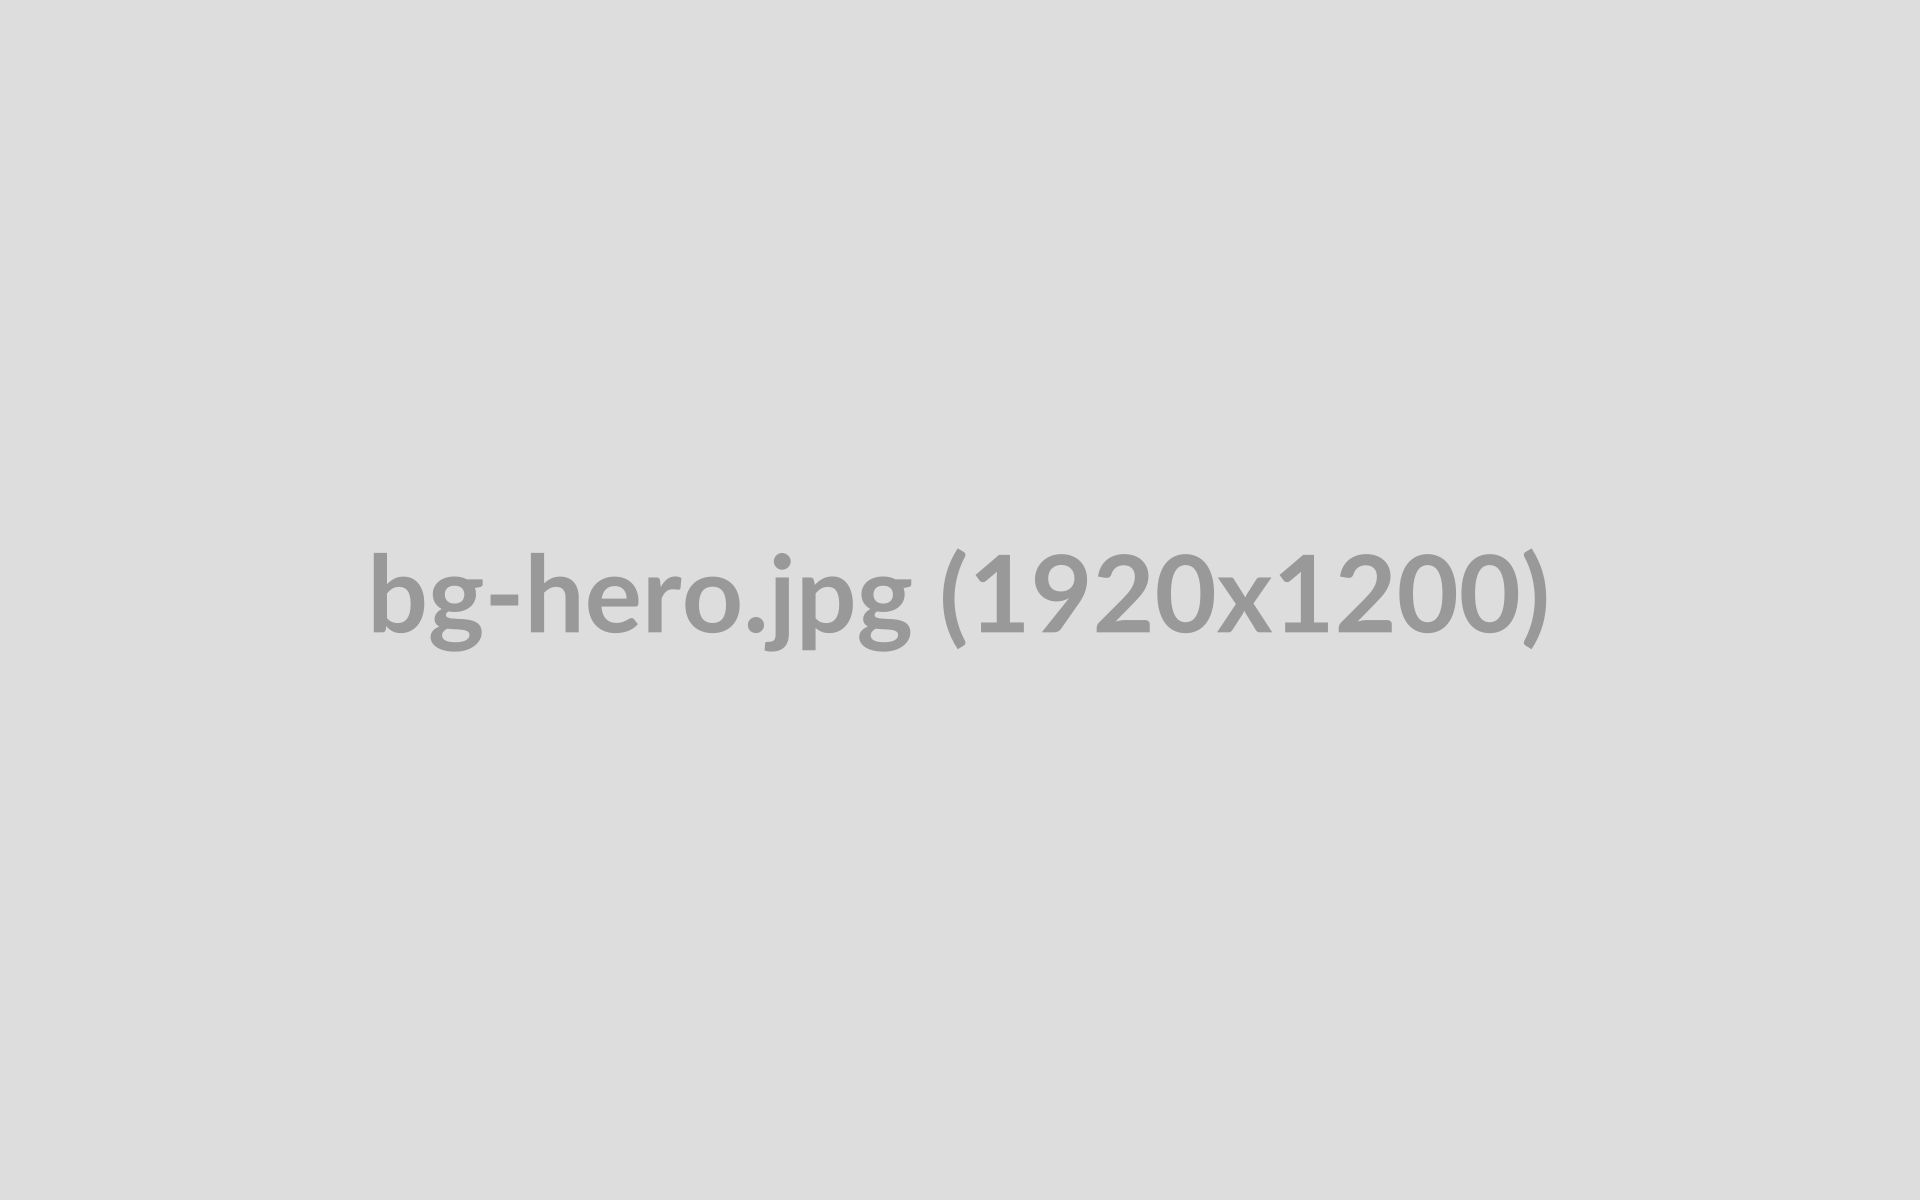
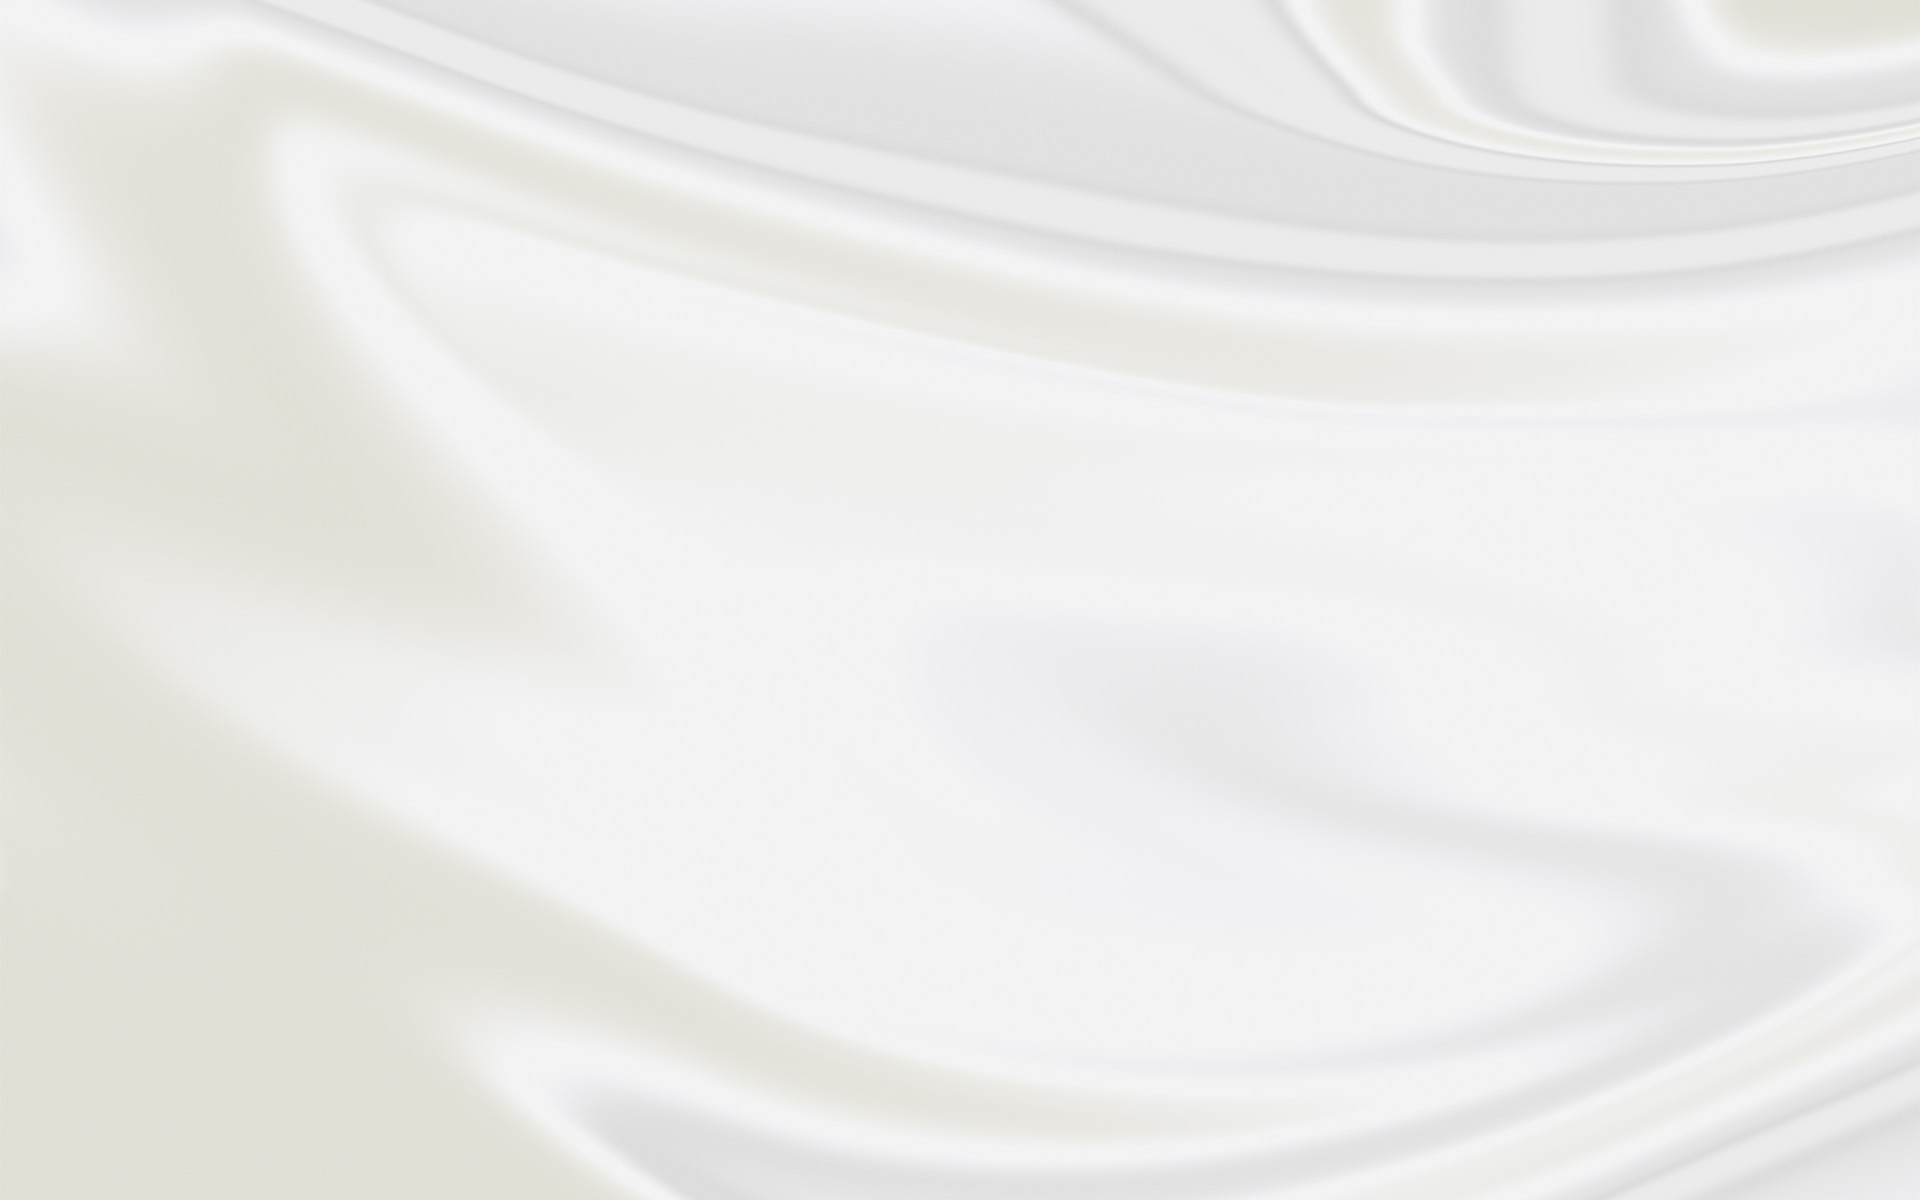
Second Update

Changed region(s): [[0.1875, 0.4625, 0.8125, 0.555]]

diff --git a/index.html b/index.html
@@ -2,7 +2,7 @@
 <html lang="en" class="h-100 w-100">
 
 <head>
-    <title>Dahlia - Responsive Wedding Invitation</title>
+    <title>Save the Date! (May 15)</title>
 
     <link rel="preload" href="css/style.min.css" as="style">
     <link rel="preload" href="js/script.min.js" as="script">
@@ -24,6 +24,17 @@
 </head>
 
 <body id="page-top" class="h-100 w-100">
+    
+  <!-- Lock Screen Start -->
+  <div id="lock-screen">
+    <div class="lock-container">
+        <h4>Enter Your Invite Code</h4>
+        <input id="access-code" type="text" placeholder="e.g., 47923" autocomplete="off" />
+        <button onclick="checkCode()">UNLOCK INVITATION</button>
+        <p id="error-msg">Invalid code. Please try again.</p>
+    </div>
+</div>
+<!-- Lock Screen End -->
 
     <!-- Preloader Start -->
     <div class="preloader bg-white h-100 position-fixed w-100">
@@ -36,70 +47,12 @@
     </div>
     <!-- Preloader End -->
 
-
-    <!-- Header Start -->
-    <header class="fixed-top">
-        <nav class="navbar navbar-expand-lg p-0">
-            <div class="container">
-                <!-- Navbar brand (mobile) -->
-                <div class="navbar-brand align-items-center d-flex d-lg-none me-0">
-                    <img width="300" height="67" src="img/navbar-brand.png" alt="Logo">
-                </div>
-
-                <!-- Navbar toggler -->
-                <button class="navbar-toggler bg-secondary" type="button" data-bs-toggle="collapse" data-bs-target="#navbar" aria-controls="navbar" aria-expanded="false" aria-label="Toggle navigation">
-                    <span class="navbar-toggler-icon"></span>
-                </button>
-
-                <!-- Navbar menu -->
-                <div id="navbar" class="collapse navbar-collapse justify-content-lg-center">
-                    <ul class="navbar-nav pt-3 pt-lg-0">
-                        <li class="nav-item me-3">
-                            <a class="nav-link page-scroll" href="#the-couple">The double</a>
-                        </li>
-                        <li class="nav-item me-3">
-                            <a class="nav-link page-scroll" href="#the-wedding-event">Events</a>
-                        </li>
-                        <li class="nav-item">
-                            <a class="nav-link page-scroll" href="#love-story">Love Story</a>
-                        </li>
-                    </ul>
-
-                    <!-- Navbar brand (desktop) -->
-                    <div class="navbar-brand d-none d-lg-block mx-3 mx-xl-5 text-center">
-                        <img width="300" height="67" src="img/navbar-brand.png" alt="Logo">
-                    </div>
-
-                    <ul class="navbar-nav">
-                        <li class="nav-item me-3">
-                            <a class="nav-link page-scroll" href="#photos">Photos</a>
-                        </li>
-                        <li class="nav-item me-3">
-                            <a class="nav-link page-scroll" href="#wedding-gifts">Wedding Gifts</a>
-                        </li>
-                        <li class="nav-item">
-                            <a class="nav-link page-scroll" href="#rsvp">RSVP</a>
-                        </li>
-                    </ul>
-                </div>
-                <!-- //.collapse -->
-            </div>
-            <!-- //.container -->
-        </nav>
-    </header>
-    <!-- Header End -->
-
-
-    <!-- Spacer -->
-    <span class="spacer d-block w-100"></span>
-
-
     <!-- Section - Hero Start -->
-    <section id="hero" class="bg-img-cover bg-overlay position-relative">
+    <section id="hero" class="bg-img-cover  position-relative">
         <div class="container">
             <div class="row g-0 justify-content-center justify-content-lg-start">
                 <div class="col-md-9 col-lg-6 col-xl-5 bg-white px-4 py-5 position-relative rounded shadow">
-                    <h5 class="font-alt fw-bold lh-1 mb-3 text-center">Togetherscdc eir Families</h5>
+                    <h5 class="font-alt fw-bold lh-1 mb-3 text-center">Invitation!</h5>
                     <span class="section-divider divider-secondary"></span>
 
                     <div class="img-clip-path clip-hero position-relative">
@@ -142,6 +95,11 @@
                 <!-- //.col-12 -->
             </div>
             <!-- //.row -->
+                <div class="align-items-center d-flex justify-content-center mb-2">
+                    <h2 class="font-alt fw-bold m-0">Chamodi</h2>
+                    <span class="icon-svg icon-svg-lg mx-2"><img src="img/icon-wedding-ampersand.svg" alt=""></span>
+                    <h2 class="font-alt fw-bold m-0">Dulan</h2>
+                </div>
 
             <div class="row justify-content-center">
 
@@ -768,6 +726,8 @@
 
     <!-- Required JS files -->
     <script src="js/script.min.js"></script>
+    <script src="js/lock.js"></script>
+
 </body>
 
 </html>

diff --git a/js/lock.js b/js/lock.js
@@ -1,0 +1,69 @@
+const validCodes = [
+    "1", "83516", "65074", "20485", "95362",
+    "31784", "74590", "29136", "63825", "07491",
+    "52687", "94312", "86735", "61942", "38257",
+    "08463", "72914", "43698", "50728", "84136",
+    "17954", "64238", "38704", "92516", "51470",
+    "75384", "29063", "45718", "87269", "62304",
+    "04752", "38196", "16427", "90483", "75249",
+    "28361", "64972", "03485", "87621", "41890",
+    "39716", "52748", "86041", "15973", "20468",
+    "74819", "93056", "51287", "07436", "69281"
+];
+
+function checkCode() {
+    const code = document.getElementById("access-code").value.trim();
+    const errorMsg = document.getElementById("error-msg");
+    const lockScreen = document.getElementById("lock-screen");
+    
+    if (validCodes.includes(code)) {
+        // Smooth fade out
+        lockScreen.style.opacity = "0";
+        setTimeout(() => {
+            lockScreen.style.display = "none";
+        }, 400);
+    } else {
+        errorMsg.style.display = "block";
+        document.getElementById("access-code").focus();
+        
+        // Shake effect on error
+        const container = document.querySelector(".lock-container");
+        container.style.animation = "shake 0.5s";
+        setTimeout(() => {
+            container.style.animation = "";
+        }, 500);
+    }
+}
+
+window.addEventListener("load", () => {
+    // Make sure preloader is hidden if you have one
+    const preloader = document.querySelector(".preloader");
+    if (preloader) preloader.style.display = "none";
+
+    const lockScreen = document.getElementById("lock-screen");
+    lockScreen.style.display = "flex"; // show immediately
+    document.getElementById("access-code").focus(); // auto-focus
+    
+    // Add keypress event listener for Enter key
+    document.getElementById("access-code").addEventListener("keypress", function(event) {
+        if (event.key === "Enter") {
+            checkCode();
+        }
+    });
+    
+    // Hide error message when typing
+    document.getElementById("access-code").addEventListener("input", function() {
+        document.getElementById("error-msg").style.display = "none";
+    });
+    
+    // Add shake animation
+    document.head.insertAdjacentHTML("beforeend", `
+        <style>
+            @keyframes shake {
+                0%, 100% { transform: translateX(0); }
+                10%, 30%, 50%, 70%, 90% { transform: translateX(-5px); }
+                20%, 40%, 60%, 80% { transform: translateX(5px); }
+            }
+        </style>
+    `);
+});

diff --git a/css/custom.css b/css/custom.css
@@ -17,5 +17,103 @@
 footer {
     background-image: url("../images/bg-footer.jpg")
 }
+#hero {
+    margin-top: 0 !important;
+    padding-top: 30px !important;
+    padding-bottom: 30px !important;
+  }
+.body{
+    font-family: Arial, Helvetica, sans-serif;
+}
 
+
+  /* Lock Screen Styles */
+
+#lock-screen {
+    position: fixed;
+    top: 0;
+    left: 0;
+    width: 100vw;
+    height: 100vh;
+    z-index: 9999;
+    background-color: #f5f7fa;
+    display: flex;
+    align-items: center;
+    justify-content: center;
+    transition: all 0.5s ease;
+}
+
+.lock-container {
+    text-align: center;
+    padding: 2.5rem;
+    box-shadow: 0 10px 25px rgba(0,0,0,0.08);
+    border-radius: 16px;
+    background: white;
+    width: 90%;
+    max-width: 360px;
+    transition: all 0.3s ease;
+}
+
+.lock-container:hover {
+    transform: translateY(-3px);
+    box-shadow: 0 14px 30px rgba(0,0,0,0.12);
+}
+
+h4 {
+    margin-bottom: 1.5rem;
+    font-weight: 500;
+    color: #2d3748;
+    font-size: 1.25rem;
+    letter-spacing: -0.01em;
+}
+
+#access-code {
+    padding: 0.75rem 1rem;
+    border: 1px solid #e2e8f0;
+    border-radius: 8px;
+    width: 100%;
+    margin-bottom: 1.25rem;
+    font-size: 0.95rem;
+    transition: all 0.2s ease;
+    text-align: center;
+    letter-spacing: 0.05em;
+    font-weight: 400;
+}
+
+#access-code:focus {
+    outline: none;
+    border-color: #4299e1;
+    box-shadow: 0 0 0 3px rgba(66, 153, 225, 0.15);
+}
+
+#access-code::placeholder {
+    color: #a0aec0;
+    font-weight: 300;
+}
+
+button {
+    padding: 0.75rem 1.75rem;
+    border: none;
+    background: #4299e1;
+    color: white;
+    font-weight: 500;
+    border-radius: 8px;
+    cursor: pointer;
+    transition: all 0.2s ease;
+    font-size: 0.9rem;
+    letter-spacing: 0.02em;
+}
+
+button:hover {
+    background: #3182ce;
+    transform: translateY(-1px);
+}
+
+#error-msg {
+    color: #e53e3e;
+    margin-top: 1rem;
+    display: none;
+    font-size: 0.875rem;
+    font-weight: 400;
+}
 /*# sourceMappingURL=custom.min.css.map */

diff --git a/text.html b/text.html
@@ -1,0 +1,33 @@
+<section id="hero" class="bg-img-cover bg-overlay position-relative">
+    <div class="container">
+        <div class="row g-0 justify-content-center justify-content-lg-start">
+            <div class="col-md-9 col-lg-6 col-xl-5 bg-white px-4 py-5 position-relative rounded shadow">
+                <h5 class="font-alt fw-bold lh-1 mb-3 text-center">Invitation!</h5>
+                <span class="section-divider divider-secondary"></span>
+
+                <div class="img-clip-path clip-hero position-relative">
+                    <img src="images/the-couple-hero.jpg" alt="" class="img-fluid">
+                </div>
+                <!-- //.img-clip-path -->
+
+                <div class="align-items-center d-flex justify-content-center mb-2">
+                    <h2 class="font-alt fw-bold m-0">Chamodi</h2>
+                    <span class="icon-svg icon-svg-lg mx-2"><img src="img/icon-wedding-ampersand.svg" alt=""></span>
+                    <h2 class="font-alt fw-bold m-0">Dulan</h2>
+                </div>
+                <!-- //.align-items-center -->
+
+                <p class="fs-5 text-center text-muted">Request the honor of your presence at their wedding ceremony and reception.</p>
+
+                <!-- Ornament -->
+                <img width="100" src="img/ornament-divider.png" alt="" class="d-block mx-auto">
+                <span class="ornament-corner ornament-primary ornament-top"></span>
+                <span class="ornament-corner ornament-primary"></span>
+            </div>
+            <!-- //.col-md-9 -->
+        </div>
+        <!-- //.row -->
+    </div>
+    <!-- //.container -->
+</section>
+<!-- Section - Hero End -->
